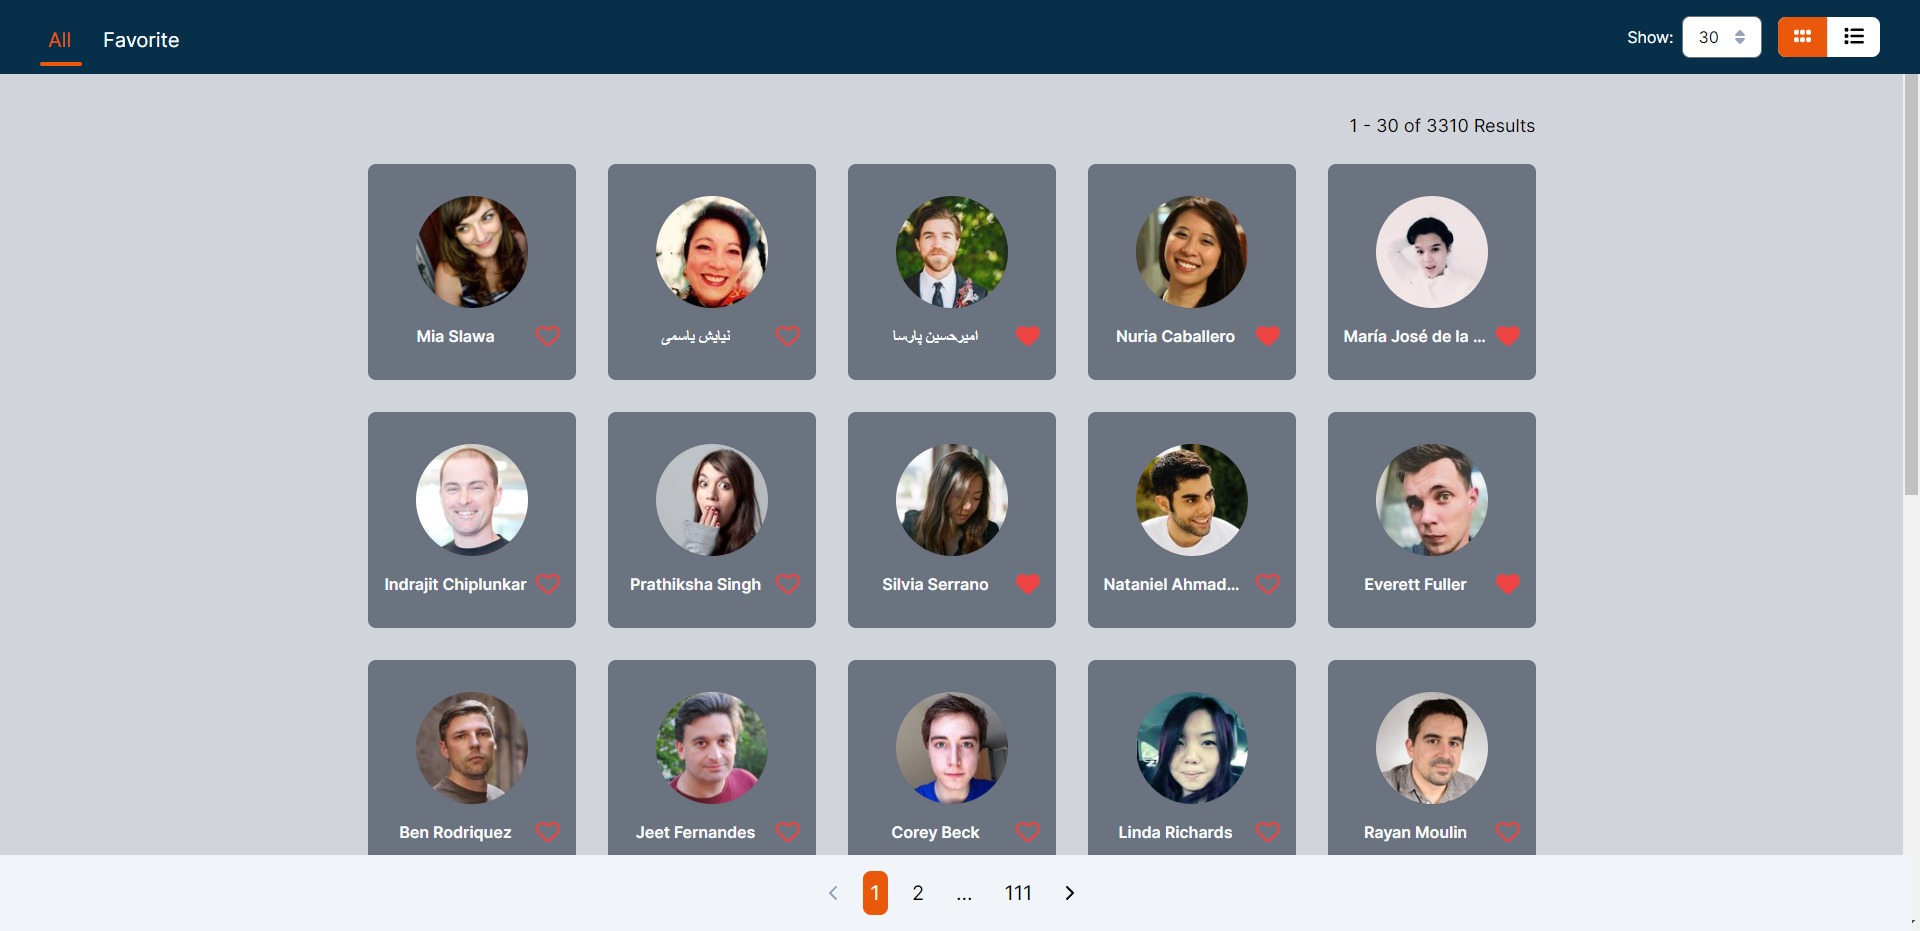
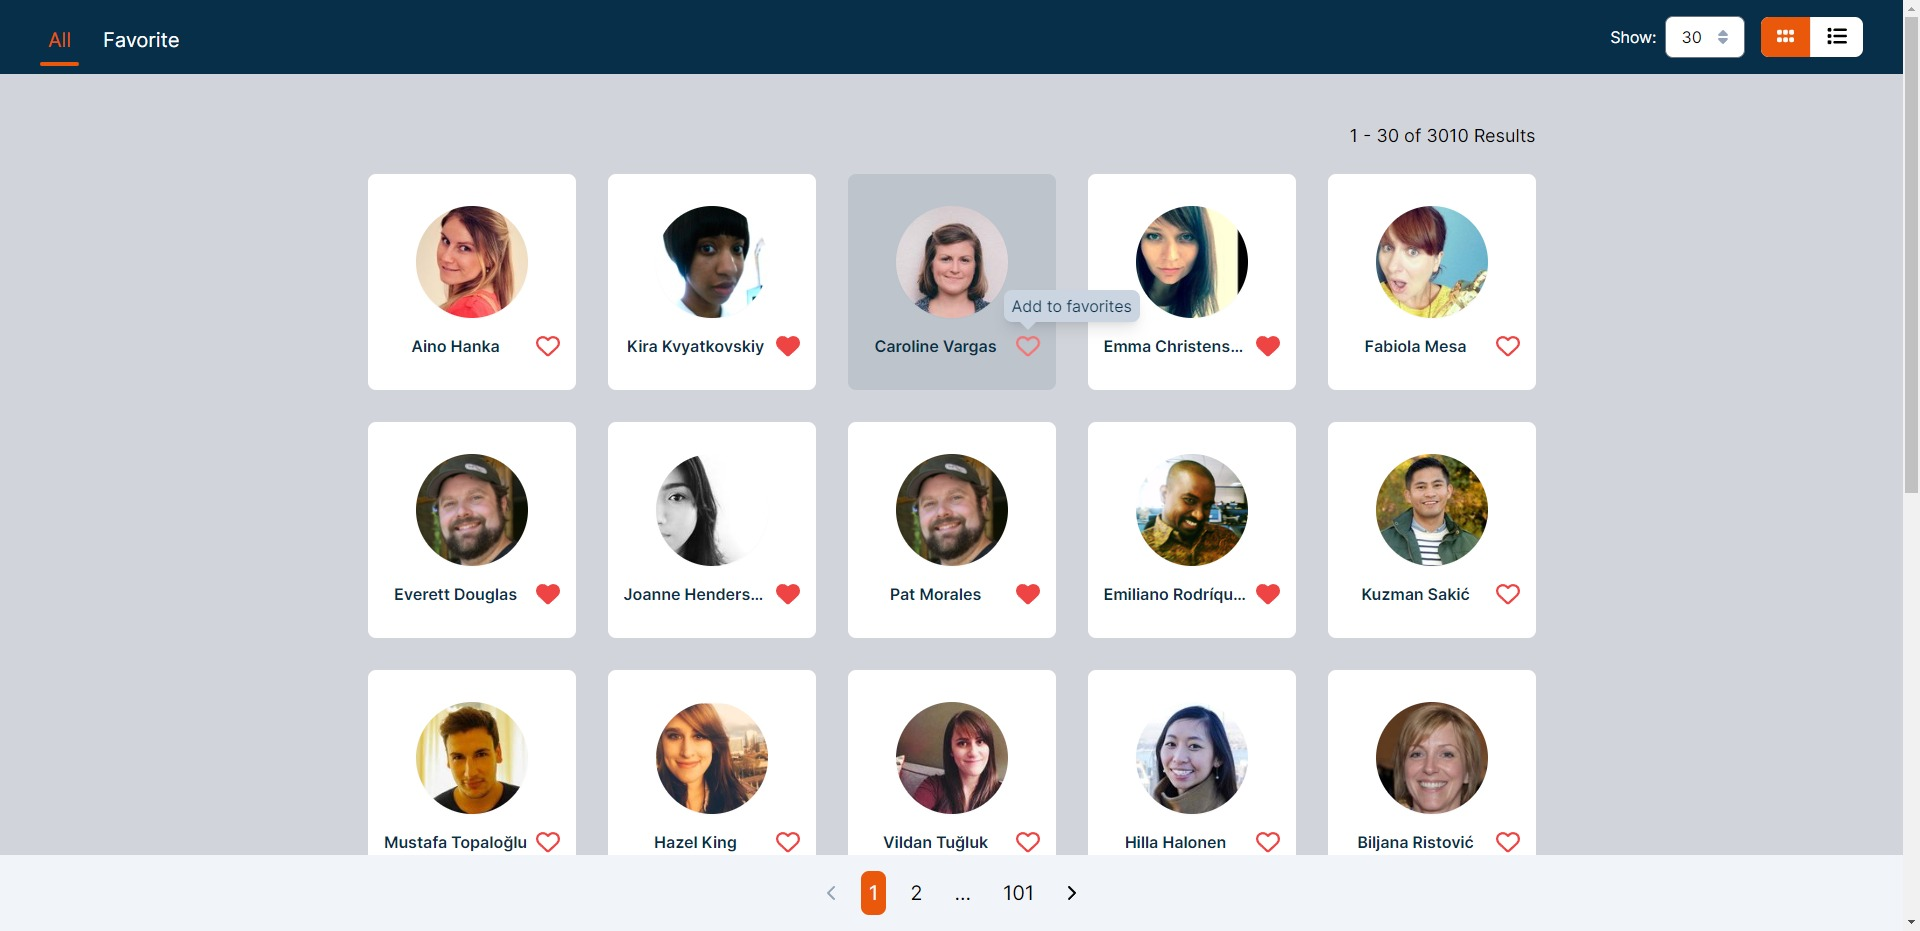
fix random user style

diff --git a/Random User/src/components/items/User-List-Item.vue b/Random User/src/components/items/User-List-Item.vue
@@ -1,12 +1,12 @@
 <template lang="pug">
-.flex.flex-row.bg-gray-500.px-10.rounded-lg.py-8.justify-between.items-center(
-  class=["hover:bg-gray-400"]
+.flex.flex-row.bg-white.px-10.rounded-lg.py-8.justify-between.items-center.text-sky-950(
+  class=["hover:bg-sky-950/10"]
   @click="$emit('item-click')"
 )
-  .flex.space-x-2
+  .flex.space-x-8
     img.rounded-full.border-gray-100.shadow-sm.w-28.h-28(:src="userPhoto.medium" alt='user image')
-    .flex.justify-center.items-center(class=["md:w-36"])
-      h1.text-gray-50.font-semibold.truncate {{ userName }}
+    .flex.justify-start.items-center
+      h1.font-semibold {{ userName }}
   HoverTooltip(v-if="!favorited" text="Add to favorites" position="left")
     AddFavoriteBtn(size="large" @add-favorite="favoriteStore.addToFavorites(id, userName, userPhoto)")
   HoverTooltip(v-else text="Remove from varorites" position="left")
@@ -21,7 +21,7 @@ import RemoveFavoriteBtn from './Remove-Favorite-Button.vue';
 import HoverTooltip from '@/components/tooltip/Hover-Tooltip.vue';
 import { useFavoriteUsersStore } from '@/stores';
 const props = defineProps<UserItem>();
-const emit = defineEmits(['item-click']);
+defineEmits(['item-click']);
 const favoriteStore = useFavoriteUsersStore();
 const favorited = computed(() => !!favoriteStore.favoriteUsers[props.id]);
 </script>

diff --git a/Random User/src/components/items/User-Card.vue b/Random User/src/components/items/User-Card.vue
@@ -1,13 +1,13 @@
 <template lang="pug">
-.flex.flex-col.items-center.justify-center.bg-gray-500.p-4.rounded-lg.space-y-4.py-8.w-52(
-  class=["hover:bg-gray-400"]
+.flex.flex-col.items-center.justify-center.bg-white.p-4.rounded-lg.space-y-4.py-8.w-52.text-sky-950(
+  class=["hover:bg-sky-950/10"]
   @click.stop="$emit('item-click')"
   )
   img.rounded-full.border-gray-100.shadow-sm.w-28.h-28(:src="userPhoto.large" alt='user image')
   
   .flex.flex-row.space-x-2.justify-center.items-center
     .flex.justify-center(class=["xl:w-36"])
-      h1.text-gray-50.font-semibold.truncate {{ userName }}
+      h1.font-semibold.truncate {{ userName }}
     HoverTooltip(v-if="!favorited" text="Add to favorites")
       AddFavoriteBtn(size="medium" @add-favorite="favoriteStore.addToFavorites(id, userName, userPhoto)")
     HoverTooltip(v-else text="Remove from varorites")
@@ -22,7 +22,7 @@ import RemoveFavoriteBtn from './Remove-Favorite-Button.vue';
 import HoverTooltip from '@/components/tooltip/Hover-Tooltip.vue';
 import { useFavoriteUsersStore } from '@/stores';
 const props = defineProps<UserItem>();
-const emit = defineEmits(['item-click']);
+defineEmits(['item-click']);
 const favoriteStore = useFavoriteUsersStore();
 const favorited = computed(() => !!favoriteStore.favoriteUsers[props.id]);
 </script>

diff --git a/Random User/src/pages/components/User-Detail.vue b/Random User/src/pages/components/User-Detail.vue
@@ -1,11 +1,11 @@
 <template lang="pug">
-.flex.flex-col.py-2.px-3.bg-slate-100.rounded-lg.space-y-1(class=["w-[400px]"])
+.flex.flex-col.py-2.px-3.bg-slate-100.rounded-lg.space-y-1.text-sky-950(class=["w-[400px]"])
   .flex.justify-end
     button.flex.items-center.justify-center(@click="$emit('close')")
       font-awesome-icon.text-xl(:icon="['fas', 'xmark']" class=["hover:text-slate-500"])
   .flex.flex-col.flex-1.space-y-4.items-center.p-4
     img.rounded-lg(:src="userPhoto.large" class=["w-[200px]"])
-    h1.text-2xl {{ userName  }}
+    h1.text-2xl {{ userName }}
 
     button.flex.flex-row.p-4.rounded-lg.border.border-red-500.text-red-500.items-center.space-x-2(
       v-if="isFavorited"
@@ -32,7 +32,7 @@ import { computed } from 'vue';
 const props = defineProps<UserItem>();
 const favoriteStore = useFavoriteUsersStore();
 const isFavorited = computed(() => !!favoriteStore.favoriteUsers[props.id]);
-const emit = defineEmits(['close']);
+defineEmits(['close']);
 </script>
 
 <style scoped></style>

diff --git a/Random User/src/components/items/Remove-Favorite-Button.vue b/Random User/src/components/items/Remove-Favorite-Button.vue
@@ -2,7 +2,7 @@
 button.flex.justify-center.items-center(@mouseenter="hover = true" @mouseleave="hover = false" @click.stop="$emit('remove-favorite')")
   font-awesome-icon.text-red-500(
     :icon="['fas', 'heart']"
-    class=["hover:text-gray-300"]
+    class=["hover:text-gray-500"]
     :class="{ 'text-3xl': size === 'large', 'text-2xl': size === 'medium' }"
   )
 </template>
@@ -17,7 +17,7 @@ withDefaults(
     size: 'medium',
   },
 );
-const emit = defineEmits(['remove-favorite']);
+defineEmits(['remove-favorite']);
 const hover = ref(false);
 </script>
 

diff --git a/Random User/src/components/header/List-Type-Tab.vue b/Random User/src/components/header/List-Type-Tab.vue
@@ -2,7 +2,7 @@
 .flex.flex-row.rounded-lg.divide-x.bg-white
   button.px-4.py-2(
     v-for="option in options"
-    class=["px-4", "py-2", ]
+    class=["px-4", "py-2", "hover:bg-orange-400", "first:rounded-l-lg", "last:rounded-r-lg"]
     :class="{ active: option.value === modelValue }"
     :key="option.value" 
     @click="$emit('update:modelValue', option.value)"
@@ -18,7 +18,7 @@ defineProps<{
   }[];
   modelValue: string;
 }>();
-const emit = defineEmits(['update:modelValue']);
+defineEmits(['update:modelValue']);
 </script>
 
 <style scoped>

diff --git a/Random User/src/pages/components/User-List-Base.vue b/Random User/src/pages/components/User-List-Base.vue
@@ -1,7 +1,7 @@
 <template lang="pug">
 .flex.flex-1(v-if="!isLoading")
   .flex.flex-1.flex-col.justify-center.items-center(v-if="userData.users.value.length > 0")
-    .flex.flex-1.flex-col.justify-center.items-center.space-y-6.px-20.py-12.w-fit
+    .flex.flex-1.flex-col.items-center.space-y-6.px-20.py-12.w-fit
       .flex.flex-row.justify-end.w-full
         p.text-lg {{ resultCounter.start }} - {{ resultCounter.end }} of {{ userData.totalItems }} Results
       GridList(v-if="listType === 'grid'")

diff --git a/Random User/src/components/tabs/Nav-Tab.vue b/Random User/src/components/tabs/Nav-Tab.vue
@@ -1,6 +1,6 @@
 <template lang="pug">
 button(
-  class=["text-xl", "py-1", "px-2", "text-white",]
+  class=["text-xl", "py-1", "px-2", "text-white", "hover:text-orange-400"]
   :class="{ 'active-tab': active }"
   @click="$emit('tab-select')")
   p {{ label }}
@@ -11,7 +11,7 @@ defineProps<{
   label: string;
   active?: boolean;
 }>();
-const emit = defineEmits(['tab-select']);
+defineEmits(['tab-select']);
 </script>
 
 <style scoped></style>

diff --git a/Random User/src/components/lists/Grid-List.vue b/Random User/src/components/lists/Grid-List.vue
@@ -1,5 +1,5 @@
 <template lang="pug">
-div(class=["grid", "place-content-center","sm:gap-4", "xl:gap-8","sm:grid-cols-1", "md:grid-cols-3", "xl:grid-cols-5"])
+div(class=["grid","sm:gap-4", "xl:gap-8","sm:grid-cols-1", "md:grid-cols-3", "xl:grid-cols-5"])
   slot
 </template>
 

diff --git a/Random User/src/components/pagination/Ellipsis-Pagination.vue b/Random User/src/components/pagination/Ellipsis-Pagination.vue
@@ -21,7 +21,7 @@ const props = defineProps<{
   modelValue: number;
 }>();
 
-const emit = defineEmits(['update:modelValue']);
+defineEmits(['update:modelValue']);
 
 const pages = computed(() => {
   return calcPagination(props.modelValue);

diff --git a/Random User/src/components/items/Add-Favorite-Button.vue b/Random User/src/components/items/Add-Favorite-Button.vue
@@ -18,7 +18,7 @@ withDefaults(
     size: 'medium',
   },
 );
-const emit = defineEmits(['add-favorite']);
+defineEmits(['add-favorite']);
 const hover = ref(false);
 </script>
 

diff --git a/Random User/src/components/lists/Regular-List.vue b/Random User/src/components/lists/Regular-List.vue
@@ -1,5 +1,5 @@
 <template lang="pug">
-.space-y-6.flex.flex-col.items-center
+.space-y-6.flex.flex-col
   slot
 </template>
 
